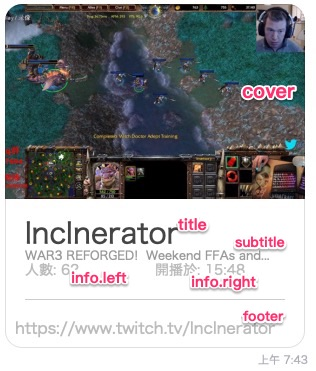
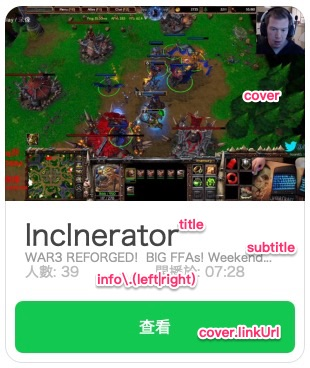
refactor(bot): 直播頻道樣式，提供按鈕 UI

diff --git a/packages/bot/src/lib/bottender-toolkit/templates/createCoverBubble.ts b/packages/bot/src/lib/bottender-toolkit/templates/createCoverBubble.ts
@@ -3,7 +3,7 @@ import { createCover } from './createCover'
 /**
  * see createCoverBubble.jpg
  */
-export const createCoverBubble = (options: {
+export const createStreamInfoBubble = (options: {
   title: string
   subTitle: string
   info?: {
@@ -14,7 +14,6 @@ export const createCoverBubble = (options: {
     imageUrl?: string
     linkUrl?: string
   }
-  footer?: string
 }) => {
   const defaultsImageUrl =
     'https://twimage.daigobang.com/web/blog/0944f5bf5a5bc7b095157343fee62d7e.jpeg'
@@ -59,25 +58,23 @@ export const createCoverBubble = (options: {
               undefined,
           ],
         },
+      ],
+    },
+    footer: {
+      type: 'box',
+      layout: 'vertical',
+      spacing: 'sm',
+      contents: [
         {
-          type: 'separator',
-          margin: 'xxl',
-          color: '#cccccc',
+          type: 'button',
+          style: 'primary',
+          action: {
+            type: 'uri',
+            label: '查看',
+            uri: options.cover?.linkUrl,
+          },
         },
       ],
     },
-    footer:
-      (options.footer && {
-        type: 'box',
-        layout: 'vertical',
-        contents: [
-          {
-            type: 'text',
-            text: options.footer,
-            color: '#bbbbbb',
-          },
-        ],
-      }) ||
-      undefined,
   }
 }

diff --git a/packages/bot/src/actions/QueryTwitchStreams.tsx b/packages/bot/src/actions/QueryTwitchStreams.tsx
@@ -9,7 +9,7 @@ import { twitchGameSelector } from '@/selectors/twitchGameSelector'
 import ow from 'ow'
 import { isKeywordSelector } from '@/selectors/isKeywordSelector'
 import { chunk } from 'lodash'
-import { createCoverBubble } from '@/lib/bottender-toolkit/templates/createCoverBubble'
+import { createStreamInfoBubble } from '@/lib/bottender-toolkit/templates/createCoverBubble'
 import { streamModelSelector } from '@/selectors/streamModelSelector'
 import { useQueryTwitchStreamGa } from '@/lib/google-analytics/events/queryTwitchStreamGa'
 
@@ -87,7 +87,7 @@ export const QueryTwitchStreams: LineAction<WithGroupProps<{
       .map(
         item =>
           item &&
-          createCoverBubble({
+          createStreamInfoBubble({
             cover: {
               imageUrl: item.coverUrl,
               linkUrl: item.siteLink,
@@ -98,7 +98,6 @@ export const QueryTwitchStreams: LineAction<WithGroupProps<{
               left: item.viewerCount,
               right: item.startedAt,
             },
-            footer: item.siteLink,
           }),
       )
       .filter(item => typeof item === 'object')

diff --git a/packages/bot/src/actions/QueryCalendarEvents.ts b/packages/bot/src/actions/QueryCalendarEvents.ts
@@ -1,6 +1,6 @@
 import { LineAction } from '@/lib/bottender-toolkit/types'
 import { calendarAPI } from '@/lib/googleapis/calendarAPI'
-import { createCoverBubble } from '@/lib/bottender-toolkit/templates/createCoverBubble'
+import { createStreamInfoBubble } from '@/lib/bottender-toolkit/templates/createCoverBubble'
 import dayjs from 'dayjs'
 
 export const QueryCalendarEvents: LineAction = async (context, props) => {
@@ -19,12 +19,11 @@ export const QueryCalendarEvents: LineAction = async (context, props) => {
               item.start?.date || item.start?.dateTime || '',
             )
 
-            return createCoverBubble({
+            return createStreamInfoBubble({
               info: {
                 left: '活動資訊',
                 right: '日曆',
               },
-              footer: item.organizer?.displayName || '',
               subTitle: item.summary || '',
               title: eventDatetime.format('YYYY-MM-DD'),
             })

diff --git a/packages/bot/src/actions/ShowTwitchTopGamesButton.ts b/packages/bot/src/actions/ShowTwitchTopGamesButton.ts
@@ -1,6 +1,6 @@
 import { LineAction } from '@/lib/bottender-toolkit/types'
 import { twitchAPI } from '@/lib/twitch/twitchAPI'
-import { createCoverBubble } from '@/lib/bottender-toolkit/templates/createCoverBubble'
+import { createStreamInfoBubble } from '@/lib/bottender-toolkit/templates/createCoverBubble'
 import { chunk } from 'lodash'
 import { createCover } from '@/lib/bottender-toolkit/templates/createCover'
 import { twitchUserStreamLink } from '@/selectors/twitchUserStreamLink'
